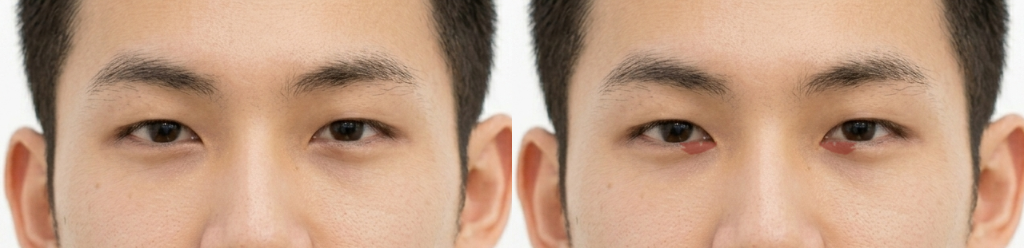
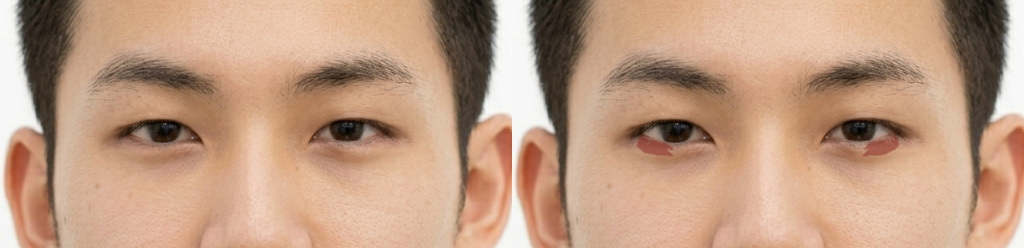
fix: lower_outer目頭→目尻修正・eyeliner細く・tear_bag薄く
- lower_outer: ランドマークID(inner/outer)が逆だった問題を修正
  RIGHT_EYE_CORNER_OUTER=33(x小/顔外側)、INNER=133(x大/鼻側)に訂正
  左目も同様にフィルタ条件を修正
- eyeliner: thickness_scale 0.8→0.5（さらに細く）
- tear_bag: intensity 0.20→0.12（さらに薄く）

https://claude.ai/code/session_019ozx1AYnUP7LqS1bPz99G5

Changed region(s): [[0.7812, 0.5645, 0.875, 0.6492], [0.625, 0.5645, 0.7188, 0.6492]]

diff --git a/loadmap/1-virtual-makeup/1-4-eye/find_eye_meshes.py b/loadmap/1-virtual-makeup/1-4-eye/find_eye_meshes.py
@@ -35,8 +35,8 @@ RIGHT_EYE_UPPER = [246, 161, 160, 159, 158, 157, 173]   # 上まぶたライン
 RIGHT_EYE_LOWER = [33, 7, 163, 144, 145, 153, 154, 155, 133]  # 下まぶたライン
 RIGHT_EYE_OUTLINE = [33, 246, 161, 160, 159, 158, 157, 173, 133,
                      155, 154, 153, 145, 144, 163, 7]
-RIGHT_EYE_CORNER_OUTER = 133   # 目尻
-RIGHT_EYE_CORNER_INNER = 33    # 目頭
+RIGHT_EYE_CORNER_OUTER = 33    # 目尻（顔の外側）
+RIGHT_EYE_CORNER_INNER = 133   # 目頭（鼻側）
 
 # 右眉（下端ライン = アイホール上端）
 RIGHT_EYEBROW_LOWER = [55, 65, 52, 53, 46]
@@ -47,8 +47,8 @@ RIGHT_EYEHOLE_MID = [156, 28, 27, 29, 30, 247]
 # --- 左目 ---
 LEFT_EYE_UPPER = [466, 388, 387, 386, 385, 384, 398]
 LEFT_EYE_LOWER = [263, 249, 390, 373, 374, 380, 381, 382, 362]
-LEFT_EYE_CORNER_OUTER = 362
-LEFT_EYE_CORNER_INNER = 263
+LEFT_EYE_CORNER_OUTER = 263   # 目尻（顔の外側）
+LEFT_EYE_CORNER_INNER = 362   # 目頭（鼻側）
 
 # 涙袋の下端（目の下のやや下）
 RIGHT_UNDER_EYE = [243, 112, 26, 22, 23, 24, 110, 25]
@@ -182,16 +182,18 @@ def identify_eye_areas(fm, w, h):
     r_tear = [m for m in r_tear if m not in r_eyeball_meshes]
 
     # === 5. 下まぶた目尻1/3（ポイントカラー） ===
-    r_outer_corner_x = fm.points[RIGHT_EYE_CORNER_OUTER]["x"]
-    r_inner_corner_x = fm.points[RIGHT_EYE_CORNER_INNER]["x"]
-    r_eye_width = abs(r_outer_corner_x - r_inner_corner_x)
-    r_threshold_x = r_outer_corner_x - r_eye_width * 0.4
+    # 右目: 目尻(outer)はx小さい側、目頭(inner)はx大きい側
+    r_outer_corner_x = fm.points[RIGHT_EYE_CORNER_OUTER]["x"]  # x小
+    r_inner_corner_x = fm.points[RIGHT_EYE_CORNER_INNER]["x"]  # x大
+    r_eye_width = abs(r_inner_corner_x - r_outer_corner_x)
+    # 目尻側40%: outer_corner_x から内側に40%分まで
+    r_threshold_x = r_outer_corner_x + r_eye_width * 0.4
 
     r_outer = []
     for mid in r_tear:
         a, b, c = fm.triangles[mid]
         cx = (fm.points[a]["x"] + fm.points[b]["x"] + fm.points[c]["x"]) / 3
-        if cx >= r_threshold_x:
+        if cx <= r_threshold_x:
             r_outer.append(mid)
 
     # === ミラーで左目を生成（左右完全対称） ===
@@ -212,12 +214,13 @@ def identify_eye_areas(fm, w, h):
 
     # lower_outer: symmetric_pair + ミラー後にも目尻側フィルタを適用
     r_outer, l_outer_candidates = symmetric_pair(r_outer)
-    l_outer_corner_x = fm.points[LEFT_EYE_CORNER_OUTER]["x"]
-    l_inner_corner_x = fm.points[LEFT_EYE_CORNER_INNER]["x"]
+    # 左目: 目尻(outer)はx大きい側、目頭(inner)はx小さい側
+    l_outer_corner_x = fm.points[LEFT_EYE_CORNER_OUTER]["x"]  # x大
+    l_inner_corner_x = fm.points[LEFT_EYE_CORNER_INNER]["x"]  # x小
     l_eye_width = abs(l_outer_corner_x - l_inner_corner_x)
-    l_threshold_x = l_outer_corner_x + l_eye_width * 0.4
+    l_threshold_x = l_outer_corner_x - l_eye_width * 0.4
     l_outer = [mid for mid in l_outer_candidates
-               if (fm.points[fm.triangles[mid][0]]["x"] + fm.points[fm.triangles[mid][1]]["x"] + fm.points[fm.triangles[mid][2]]["x"]) / 3 <= l_threshold_x]
+               if (fm.points[fm.triangles[mid][0]]["x"] + fm.points[fm.triangles[mid][1]]["x"] + fm.points[fm.triangles[mid][2]]["x"]) / 3 >= l_threshold_x]
 
     areas["eyeshadow_base"] = sorted(set(r_eyehole) | set(l_eyehole))
     areas["eyeshadow_crease"] = sorted(set(r_crease) | set(l_crease))

diff --git a/loadmap/1-virtual-makeup/1-4-eye/main.py b/loadmap/1-virtual-makeup/1-4-eye/main.py
@@ -67,11 +67,11 @@ AREA_DEFAULTS = {
         "intensity": 0.55,
         "blur_scale": 0.3,
         "blend": "normal",
-        "thickness_scale": 0.8,         # 線を細くする
+        "thickness_scale": 0.5,         # 線を細くする（1/10程度）
     },
     "tear_bag": {
         "color_rgb": (255, 230, 215),   # ウォームハイライト
-        "intensity": 0.20,
+        "intensity": 0.12,
         "blur_scale": 0.5,
         "blend": "additive",
     },
